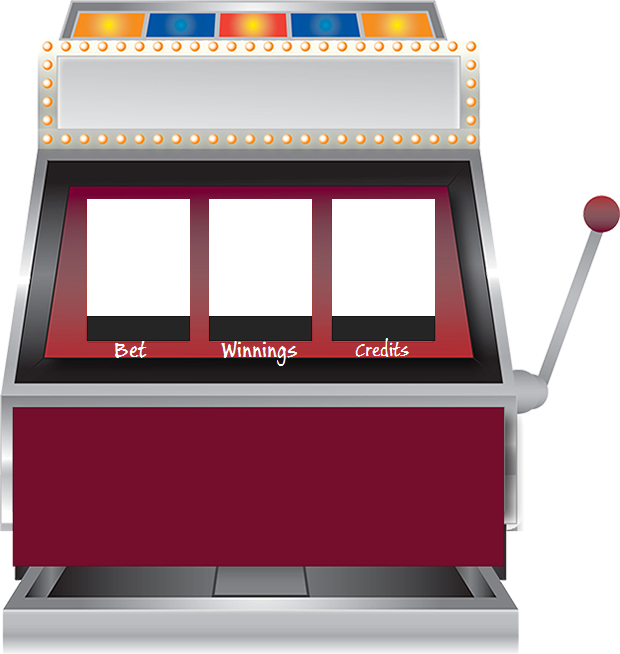
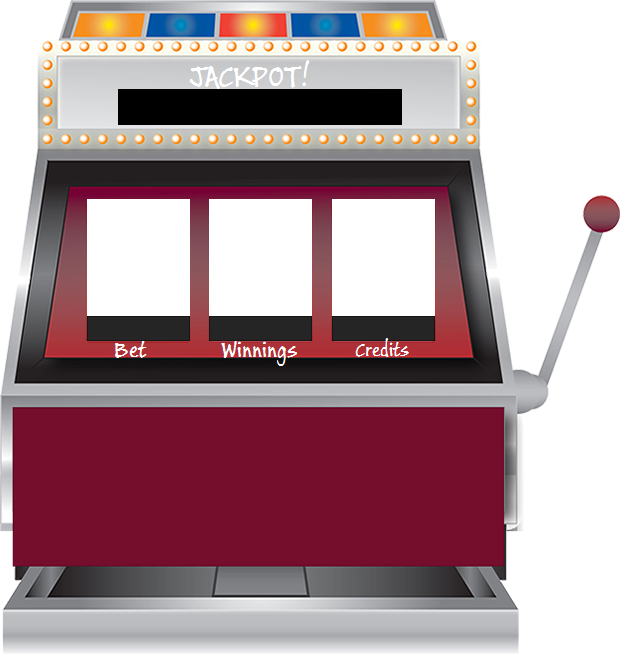
added jackpot counter to GUI fixed image order

Changed region(s): [[0.1839, 0.0917, 0.6742, 0.2141]]

diff --git a/SlotMachineAssignment/Scripts/game.ts b/SlotMachineAssignment/Scripts/game.ts
@@ -1,4 +1,9 @@
-
+//File Name: game.ts
+//Author: Justin Caguiat
+//Slot machine code using createjs
+//Last revised Feb 25 2015
+
+
 // VARIABLES ++++++++++++++++++++++++++++++++++++++++++++++++++++++++++
 var canvas; // Reference to the HTML 5 Canvas element
 var stage: createjs.Stage; // Reference to the Stage
@@ -13,6 +18,7 @@ var betMax;
 var reset;
 var lose;
 var jackpotImg;
+var isJackpot = false;
 
 var tiles: createjs.Bitmap[] = [];
 var turn = 0;
@@ -34,6 +40,7 @@ var jackpot = 10000;
 var betText;
 var winningsText;
 var creditText;
+var jackpotText;
 
 function init() {
 
@@ -62,7 +69,19 @@ function gameLoop() {
     if (credits >= 1) {
         lose.visible = false;
     }
+    //JACKPOT MSG+++++++++++++++++++++++++++++++++
+    if (isJackpot == true) {
+        jackpotImg.visible = true;
+    }
+    if (isJackpot == false) {
+        jackpotImg.visible = false;
+    }
+    //JACKPOT MSG+++++++++++++++++++++++++++++++++
 
+    jackpotText.text = jackpot.toString();
+    winningsText.text = winnings.toString();
+    creditText.text = credits.toString();
+    betText.text = playerBet.toString();
 
     stage.update();
 }
@@ -70,63 +89,61 @@ function createUI() {
     //slot machine gui
     background = new createjs.Bitmap("assets/images/slot-machine.png");
     game.addChild(background);
-
-    jackpotImg = new createjs.Bitmap("assets/images/jackpot.png");
-    game.addChild(jackpotImg);
-    jackpotImg.visible = false;
-
-    lose = new createjs.Bitmap("assets/images/lose.png");
-    game.addChild(lose);
-    lose.visible = false;
-
     //spin button
     spinButton = new createjs.Bitmap("assets/images/SpinButton.png");
     spinButton.x = 400;
     spinButton.y = 450;
     game.addChild(spinButton);
-
     //bet ten button gui
     betTen = new createjs.Bitmap("assets/images/Bet10Button.png");
     betTen.x = 323;
     betTen.y = 423;
     game.addChild(betTen);
-
     //bet one button gui
     betOne = new createjs.Bitmap("assets/images/BetOneButton.png");
     betOne.x = 323;
     betOne.y = 480;
     game.addChild(betOne);
-
     //bet max button gui
     betMax = new createjs.Bitmap("assets/images/BetMaxButton.png");
     betMax.x = 265;
     betMax.y = 423;
     game.addChild(betMax);
-
     //reset button
     reset = new createjs.Bitmap("assets/images/ResetButton.png");
     reset.x = 207;
     reset.y = 423;
     game.addChild(reset);
-
     //bet counter text--left
     betText = new createjs.Text(playerBet.toString(), "Arial", "#ff0000");
     betText.x = 100;
     betText.y = 325;
     game.addChild(betText);
-
     //winnings text--center
     winningsText = new createjs.Text(winnings.toString(), "Arial", "#ff0000");
     winningsText.x = 220;
     winningsText.y = 325;
     game.addChild(winningsText);
-
     //credits text--right
     creditText = new createjs.Text(credits.toString(), "Arial", "#ff0000");
     creditText.x = 345;
     creditText.y = 325;
     game.addChild(creditText);
-
+    //Jackpot Text
+    jackpotText = new createjs.Text(jackpot.toString(), "Arial", "#ff0000");
+    jackpotText.x = 220;
+    jackpotText.y = 93;
+    jackpotText.scaleX = 3;
+    jackpotText.scaleY = 3;
+    game.addChild(jackpotText);
+    //lose text
+    lose = new createjs.Bitmap("assets/images/lose.png");
+    game.addChild(lose);
+    lose.visible = false;
+    //jackpot img
+    jackpotImg = new createjs.Bitmap("assets/images/jackpot.png");
+    game.addChild(jackpotImg);
+    jackpotImg.visible = false;
     //button listeners
     betMax.addEventListener("click", BetMaxButton);
     betOne.addEventListener("click", BetOneButton);
@@ -153,17 +170,14 @@ function ResetButton() {
 }
 function BetOneButton() {
     playerBet = 1;
-    betText.text = playerBet.toString();
     console.log("Bet Changed to: " + playerBet);
 }
 function BetTenButton() {
     playerBet = 10;
-    betText.text = playerBet.toString();
     console.log("Bet Changed to: " + playerBet);
 }
 function BetMaxButton() {
     playerBet = 50;
-    betText.text = playerBet.toString();
     console.log("Bet Changed to: " + playerBet);
 }
 
@@ -174,6 +188,7 @@ function SpinButton() {
 
     credits -= playerBet;
     jackpot += playerBet;
+    isJackpot = false;
 
     //cant go below 0
     if (credits <= 0)
@@ -225,9 +240,7 @@ function SpinButton() {
 
     //checks payout and displays stats
     function payoutCheck(spotOne, spotTwo, spotThree) {
-
         var allSlots = [spotOne, spotTwo, spotThree];
-
         var sonic = 0;
         var tails = 0;
         var yellowGuy = 0;
@@ -317,12 +330,15 @@ function SpinButton() {
                 credits += winnings;
                 console.log("Win on knuckles: " + winnings);
             }
+            // JACKPOT AREA************************************
             else if (rings == 3) {
                 winnings = playerBet * 100;
                 credits += winnings;
                 jackpotWins++;
+                isJackpot = true;
                 console.log("Win on rings: " + winnings);
             }
+            //JACKPOT AREA*************************************
             else if (sonic == 2) {
                 winnings = playerBet * 2;
                 credits += winnings;
@@ -364,17 +380,11 @@ function SpinButton() {
                 console.log("No blanks! Take your money!: " + winnings);
             }
             win++;
-            winningsText.text = winnings.toString();
-            creditText.text = credits.toString();
-            // win message to follow
         }
         else {
             loss++;
             console.log("Spin Again");
-            winnings = 0;
-            winningsText.text = winnings.toString();
-            creditText.text = credits.toString();
-            //loss message to follow
+            winnings = 0;    
         }
         //console stats
         console.log("");
@@ -390,7 +400,6 @@ function SpinButton() {
     }
 
     function main() {
-
         // instantiate my game container
         game = new createjs.Container();
         // Create Slotmachine User Interface

diff --git a/SlotMachineAssignment/Scripts/game.js b/SlotMachineAssignment/Scripts/game.js
@@ -1,4 +1,8 @@
-// VARIABLES ++++++++++++++++++++++++++++++++++++++++++++++++++++++++++
+//File Name: game.ts
+//Author: Justin Caguiat
+//Slot machine code using createjs
+//Last revised Feb 25 2015
+// VARIABLES ++++++++++++++++++++++++++++++++++++++++++++++++++++++++++
 var canvas;
 var stage;
 
@@ -12,6 +16,7 @@ var betMax;
 var reset;
 var lose;
 var jackpotImg;
+var isJackpot = false;
 
 var tiles = [];
 var turn = 0;
@@ -33,6 +38,7 @@ var jackpot = 10000;
 var betText;
 var winningsText;
 var creditText;
+var jackpotText;
 
 function init() {
     canvas = document.getElementById("canvas");
@@ -60,20 +66,26 @@ function gameLoop() {
         lose.visible = false;
     }
 
+    //JACKPOT MSG+++++++++++++++++++++++++++++++++
+    if (isJackpot == true) {
+        jackpotImg.visible = true;
+    }
+    if (isJackpot == false) {
+        jackpotImg.visible = false;
+    }
+
+    //JACKPOT MSG+++++++++++++++++++++++++++++++++
+    jackpotText.text = jackpot.toString();
+    winningsText.text = winnings.toString();
+    creditText.text = credits.toString();
+    betText.text = playerBet.toString();
+
     stage.update();
 }
 function createUI() {
     //slot machine gui
     background = new createjs.Bitmap("assets/images/slot-machine.png");
     game.addChild(background);
-
-    jackpotImg = new createjs.Bitmap("assets/images/jackpot.png");
-    game.addChild(jackpotImg);
-    jackpotImg.visible = false;
-
-    lose = new createjs.Bitmap("assets/images/lose.png");
-    game.addChild(lose);
-    lose.visible = false;
 
     //spin button
     spinButton = new createjs.Bitmap("assets/images/SpinButton.png");
@@ -123,6 +135,24 @@ function createUI() {
     creditText.y = 325;
     game.addChild(creditText);
 
+    //Jackpot Text
+    jackpotText = new createjs.Text(jackpot.toString(), "Arial", "#ff0000");
+    jackpotText.x = 220;
+    jackpotText.y = 93;
+    jackpotText.scaleX = 3;
+    jackpotText.scaleY = 3;
+    game.addChild(jackpotText);
+
+    //lose text
+    lose = new createjs.Bitmap("assets/images/lose.png");
+    game.addChild(lose);
+    lose.visible = false;
+
+    //jackpot img
+    jackpotImg = new createjs.Bitmap("assets/images/jackpot.png");
+    game.addChild(jackpotImg);
+    jackpotImg.visible = false;
+
     //button listeners
     betMax.addEventListener("click", BetMaxButton);
     betOne.addEventListener("click", BetOneButton);
@@ -149,17 +179,14 @@ function ResetButton() {
 }
 function BetOneButton() {
     playerBet = 1;
-    betText.text = playerBet.toString();
     console.log("Bet Changed to: " + playerBet);
 }
 function BetTenButton() {
     playerBet = 10;
-    betText.text = playerBet.toString();
     console.log("Bet Changed to: " + playerBet);
 }
 function BetMaxButton() {
     playerBet = 50;
-    betText.text = playerBet.toString();
     console.log("Bet Changed to: " + playerBet);
 }
 
@@ -170,6 +197,7 @@ function SpinButton() {
 
     credits -= playerBet;
     jackpot += playerBet;
+    isJackpot = false;
 
     //cant go below 0
     if (credits <= 0)
@@ -219,7 +247,6 @@ function SpinButton() {
 //checks payout and displays stats
 function payoutCheck(spotOne, spotTwo, spotThree) {
     var allSlots = [spotOne, spotTwo, spotThree];
-
     var sonic = 0;
     var tails = 0;
     var yellowGuy = 0;
@@ -307,6 +334,7 @@ function payoutCheck(spotOne, spotTwo, spotThree) {
             winnings = playerBet * 100;
             credits += winnings;
             jackpotWins++;
+            isJackpot = true;
             console.log("Win on rings: " + winnings);
         } else if (sonic == 2) {
             winnings = playerBet * 2;
@@ -342,16 +370,10 @@ function payoutCheck(spotOne, spotTwo, spotThree) {
             console.log("No blanks! Take your money!: " + winnings);
         }
         win++;
-        winningsText.text = winnings.toString();
-        creditText.text = credits.toString();
-        // win message to follow
     } else {
         loss++;
         console.log("Spin Again");
         winnings = 0;
-        winningsText.text = winnings.toString();
-        creditText.text = credits.toString();
-        //loss message to follow
     }
 
     //console stats
